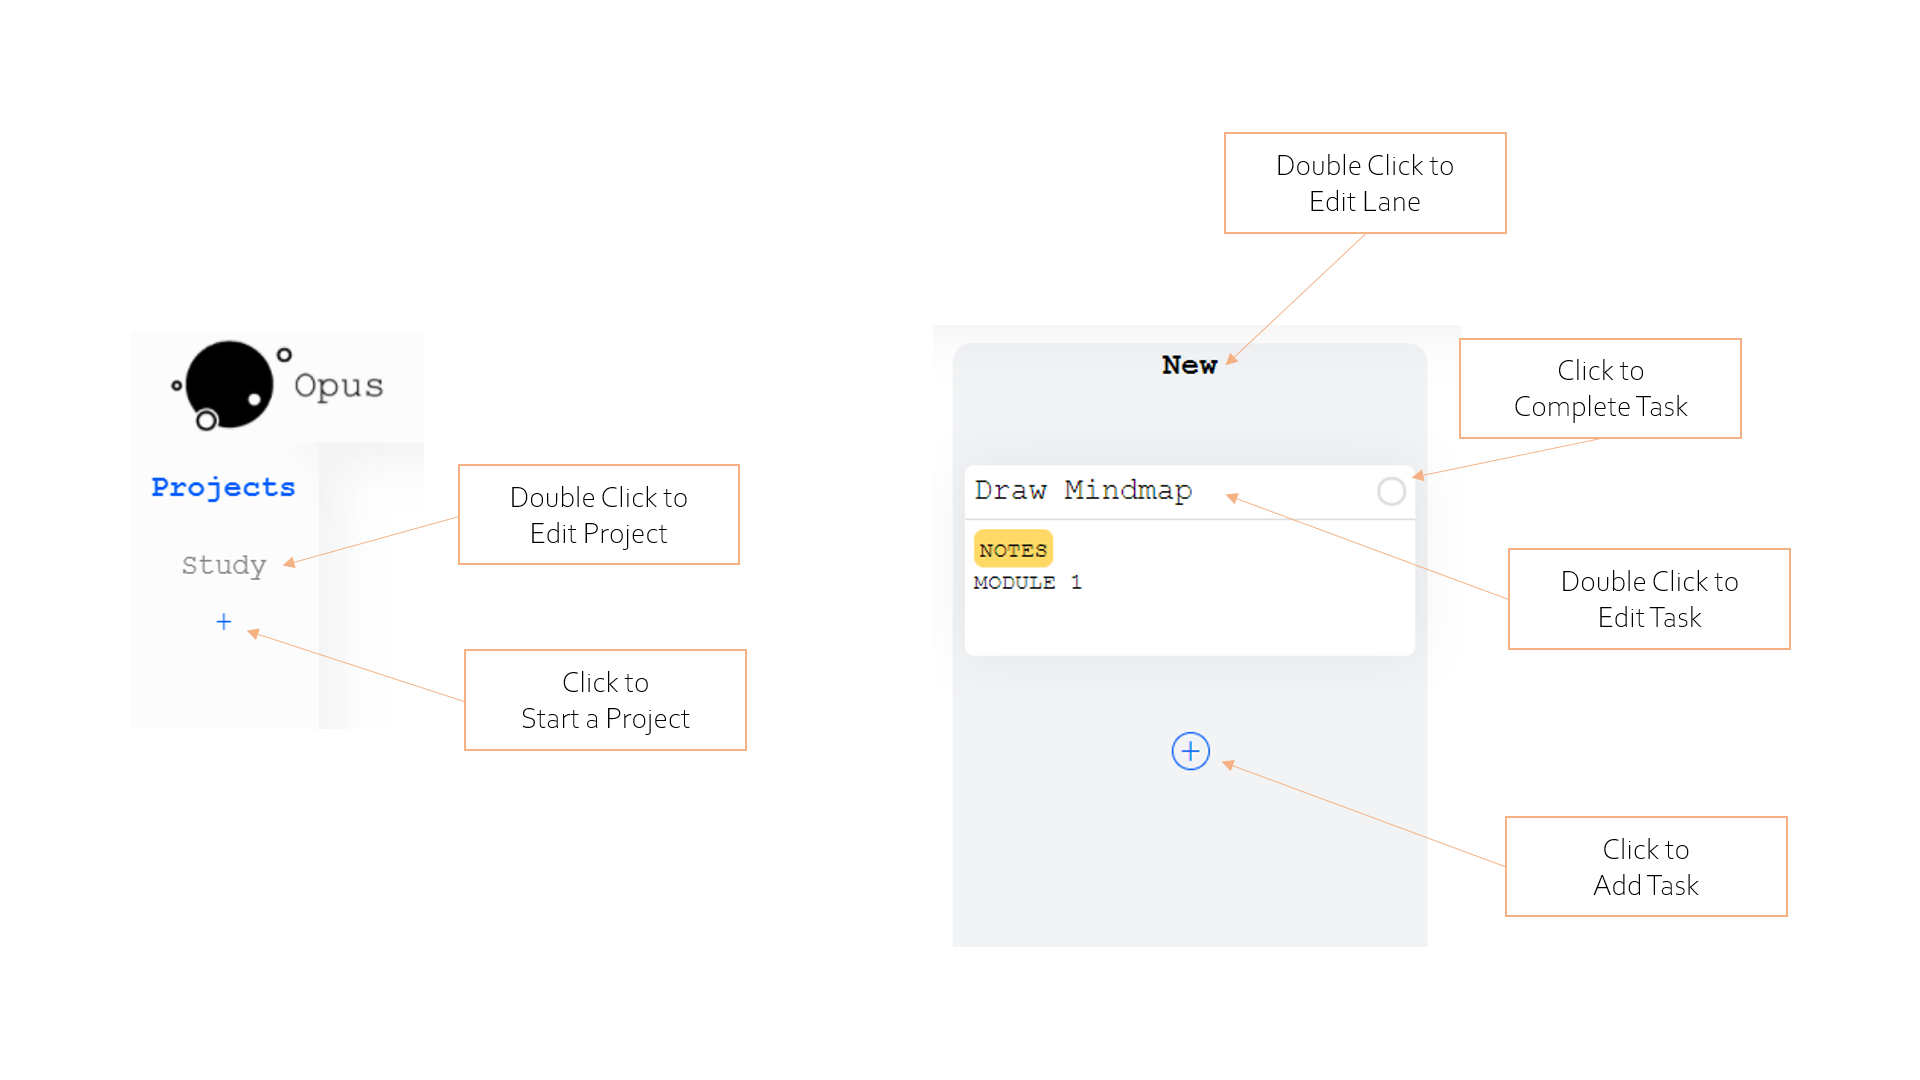
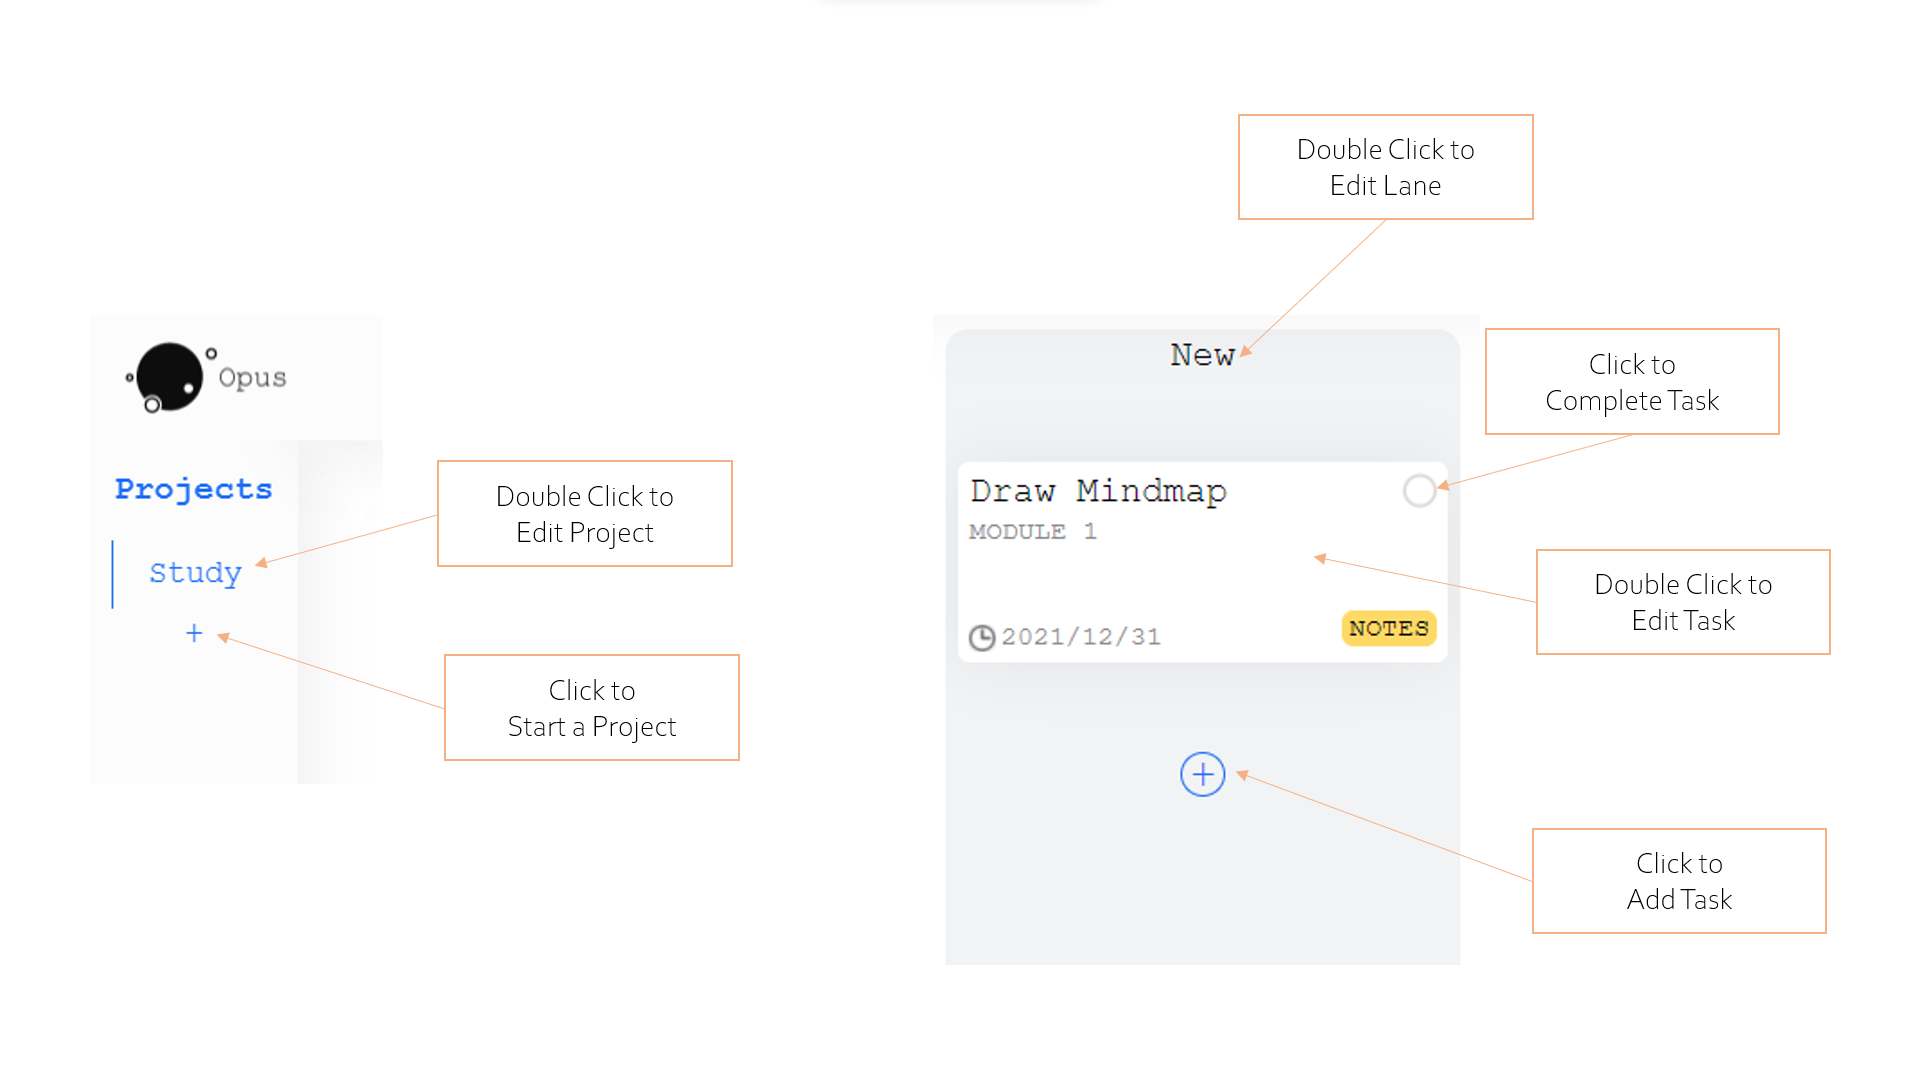
Updated HelpModal Images & UI

diff --git a/app/javascript/Components/TaskPage/Modals/HelpModal.js b/app/javascript/Components/TaskPage/Modals/HelpModal.js
@@ -1,9 +1,11 @@
-import React, { useState, useRef } from 'react'
+import React, { useState, useRef, useEffect } from 'react'
 import { Dialog } from '@headlessui/react'
 import styled from 'styled-components'
 
 import Page1 from "images/guides/Page1.png"
 import Page2 from "images/guides/Page2.png"
+import Page3 from "images/guides/Page3.png"
+import Page4 from "images/guides/Page4.png"
 
 const BaseDiv = styled.div`
   display: flex;
@@ -78,42 +80,53 @@ const Dot = styled.a`
   `}
 `
 
-const NavBtn = styled.a`
-  position: absolute;
-  width: 10%;
-  height: 100%;
-  background-color: transparent;
-
-  top: 0px;
-  ${({ isLeft }) => isLeft && ` 
-    left: 0px;
-    border-top-left-radius: 1em;
-    border-bottom-left-radius: 1em;
-  `}
-  ${({ isRight }) => isRight && ` 
-    right: 0px;
-    border-top-right-radius: 1em;
-    border-bottom-right-radius: 1em;
-  `}
-
-  &:hover {
-    background-color: var(--light-gray);
-    opacity: 30%;
-  }
-
-  &:focus {
-    background-color: var(--highlight-color);
-    opacity: 30%;
-  }
-`
-
 const HelpModal = ({
   showModal, setShowModal
 }) => {
   const [selectedIndex, setSelectedIndex] = useState(0)
   const dummyInitialRef = useRef(null)
 
-  const TOTAL_PAGES = 2;
+  const [isScrolling, setIsScrolling] = useState(false)
+  // const [scrollLeft, setScrollLeft] = useState(0)
+  const [clientX, setClientX] = useState(0)
+
+  const scrollDivRef = useRef(null)
+
+  const TOTAL_PAGES = 4;
+
+  useEffect(() => {
+    if (scrollDivRef && showModal) {
+      window.addEventListener('mousemove', onMouseMove)
+      window.addEventListener('mouseup', onMouseUp)
+      window.addEventListener('mousedown', onMouseDown)
+    }
+    
+    return () => {
+      window.removeEventListener('mousemove', onMouseMove)
+      window.removeEventListener('mouseup', onMouseUp)
+      window.removeEventListener('mousedown', onMouseDown)
+    }
+  }, [scrollDivRef, showModal, isScrolling, clientX])
+
+  const onMouseMove = (event) => {
+    if (isScrolling) {
+      console.log(scrollDivRef.current.scrollLeft, clientX, event.clientX)
+      const dragDiff = (clientX - event.clientX) * 1.5 // increase sensitivity
+      scrollDivRef.current.scrollLeft = scrollDivRef.current.scrollLeft + dragDiff
+    }
+  };
+
+  const onMouseUp =  () => {
+    console.log("RESET")
+    setIsScrolling(false)
+    setClientX(0)
+  };
+
+  const onMouseDown = (event) => {
+    console.log("INITIAL CLIENTX: " + event.clientX)
+    setIsScrolling(true)
+    setClientX(event.clientX)
+  };
 
   return (
     <Dialog
@@ -127,7 +140,7 @@ const HelpModal = ({
         <Dialog.Overlay className="fixed inset-0 z-5 bg-black bg-opacity-25" />
         
         <BaseDiv className='rounded-2xl p-5 z-10'>
-          <SlidesDiv>
+          <SlidesDiv ref={scrollDivRef} onMouseDown={()=>{}}>
             <PageDiv id='page0'>
               <b>Projects - Lanes - Tasks</b> 
               <img draggable="false" src={Page1}/>
@@ -136,17 +149,15 @@ const HelpModal = ({
               <b>Drag and Drop!</b> 
               <img draggable="false" src={Page2} />
             </PageDiv>
+            <PageDiv id='page2'>
+              <b>The Header</b> 
+              <img draggable="false" src={Page3} />
+            </PageDiv>
+            <PageDiv id='page3'>
+              <b>Editing Task!</b> 
+              <img draggable="false" src={Page4} />
+            </PageDiv>
           </SlidesDiv>
-          <NavBtn 
-            isLeft 
-            href={'#page' + (selectedIndex == 0 ? selectedIndex : selectedIndex - 1)}
-            onClick={()=>setSelectedIndex(selectedIndex == 0 ? selectedIndex : selectedIndex - 1)} 
-          />
-          <NavBtn 
-            isRight 
-            href={'#page' + (selectedIndex == TOTAL_PAGES - 1 ? selectedIndex : selectedIndex + 1)} 
-            onClick={()=>setSelectedIndex(selectedIndex == TOTAL_PAGES - 1 ? selectedIndex : selectedIndex + 1)} 
-          />
           <div style={{display:'flex', width:'fit-content', alignItems:'center', columnGap:'5px'}}>
             {
               [...Array(TOTAL_PAGES)].map((_, index) => 
